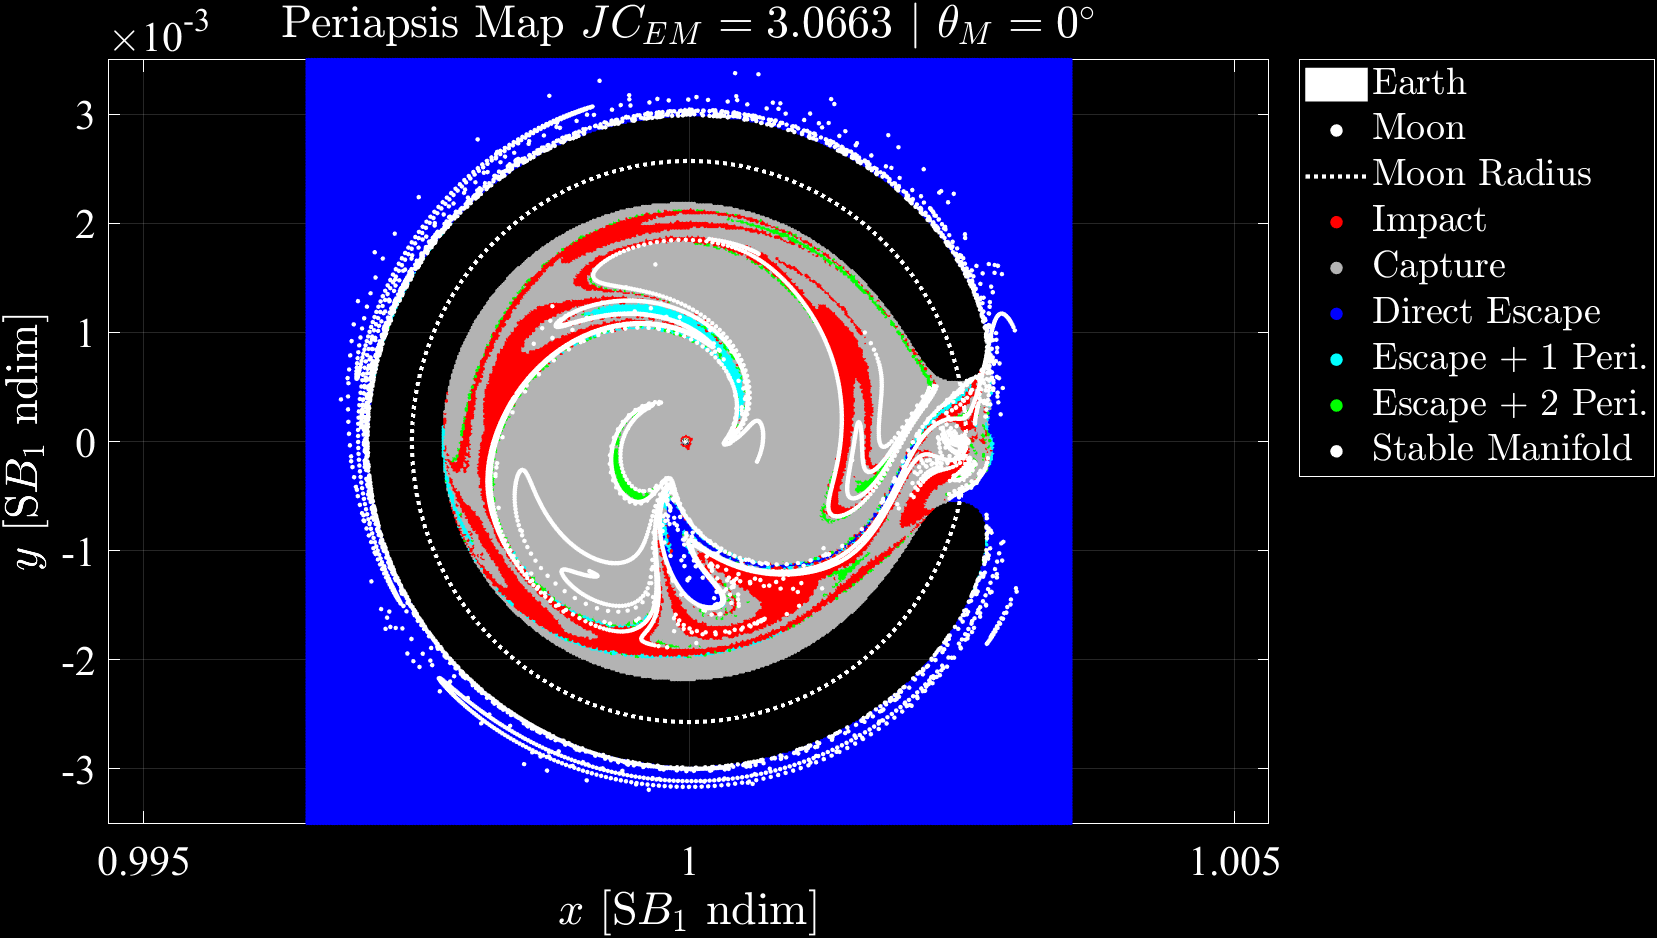
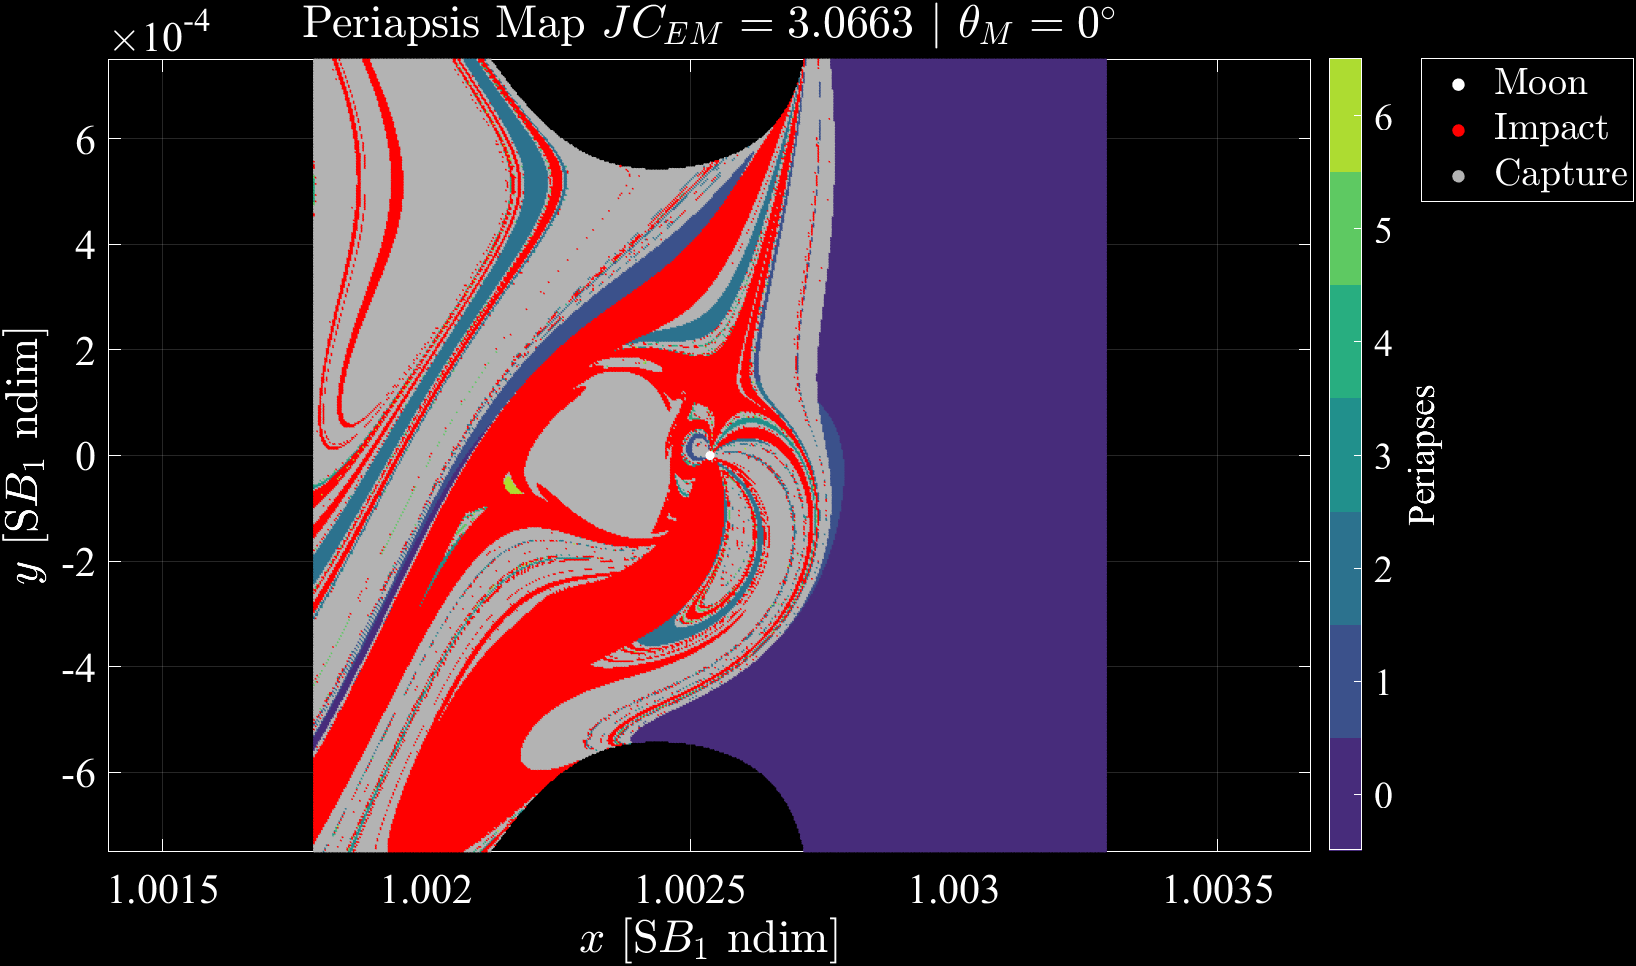
Updated PeriapsisMap.m script

diff --git a/PeriapsisMap.m b/PeriapsisMap.m
@@ -1,11 +1,13 @@
 %%% PeriapsisMap.jl
 %%% Jonathan Richmond
 %%% C: 24 October 2025
-%%% U: 8 November 2025
+%%% U: 12 November 2025
 
 clear
+% set(0, 'DefaultFigureVisible', 'off');
+set(0, 'DefaultFigureVisible', 'on');
 load('../PhDScripts/Output/PeriapsisMap.mat')
-n = length(flagsEM);
+n = length(flagsBCR4BP);
 
 %% Earth-Moon Data
 gmE = 3.9860043543609593E5; % Earth gravitational parameter [km^3/s^2]
@@ -37,34 +39,29 @@ lstarSB1 = 1.4959789401764473E8; % Characteristic length [km]
 tstarSB1 = sqrt(lstarSB1^3/(gmS+gmB1)); % Characteristic time [s]
 
 %% Color Map
-colorMap = viridis(7);
-colorMap(8,:) = [0, 0, 0];
-colorMap(9,:) = [1, 0, 0];
-colorMap(10,:) = 0.7*[1, 1, 1];
+colorMap = viridis(6);
+colorMap(7,:) = 0.7*[1, 1, 1];
+colorMap(8,:) = [1, 0, 0];
+colorMap(9,:) = [0, 0, 0];
 
-%% Earth-Moon Periapsis Map
-fig1 = figure("Position", [200 100 1200 750]);
-hold on
-x = zeros(n, 1);
-y = zeros(n, 1);
-parfor j = 1:n
-    x(j) = pointsEM{j}(1);
-    y(j) = pointsEM{j}(2);
-end
 % xMan = zeros(length(manifold), 1);
 % yMan = zeros(length(manifold), 1);
-% parfor j = 1:length(manifold)
+% for j = 1:length(manifold)
 %     xMan(j) = manifold{j}(1);
 %     yMan(j) = manifold{j}(2);
 % end
-scatter(x, y, 5, colorMap(flagsEM+1,:), 'filled', 'HandleVisibility', 'off')
+
+%% CR3BP Periapsis Map
+fig1 = figure("Position", [200 100 1200 750]);
+hold on
+scatter(xPoints, yPoints, 1.75, colorMap(flagsCR3BP+1,:), 'filled', 'HandleVisibility', 'off')
 Earth = plot3DBody("Earth", RE/lstar, [-mu, 0, 0]);
 set(Earth, 'DisplayName', "Earth")
-scatter(1-mu, 0, 20, 'w', 'filled', 'DisplayName', "Moon")
-plot(cos(linspace(0, 2*pi, 101))*(1-mu), sin(linspace(0, 2*pi, 101)), 'w:', 'DisplayName', "Moon Radius")
-% plot(RH/lstarSB1*cos(linspace(0, 2*pi, 101))+1-muSB1, RH/lstarSB1*sin(linspace(0, 2*pi, 101)), 'w--', 'DisplayName', "Hills Radius")
-scatter(nan, nan, 20, [1, 0, 0], 'filled', 'DisplayName', "Impact")
+Moon = plot3DBody("Moon", Rm/lstar, [1-mu, 0, 0]);
+set(Moon, 'DisplayName', "Moon")
+% plot(RH/lstar*cos(linspace(0, 2*pi, 101)), RH/lstar*sin(linspace(0, 2*pi, 101)), 'w--', 'DisplayName', "Hills Radius")
 scatter(nan, nan, 20, 0.7*[1, 1, 1], 'filled', 'DisplayName', "Capture")
+scatter(nan, nan, 20, [1, 0, 0], 'filled', 'DisplayName', "Impact")
 axis equal
 % ax = axis;
 % scatter(xMan, yMan, 5, 'w', 'filled', 'DisplayName', "Stable Manifold")
@@ -72,12 +69,12 @@ axis equal
 grid on
 xlabel("$x$ [EM ndim]", 'Interpreter', 'latex')
 ylabel("$y$ [EM ndim]", 'Interpreter', 'latex')
-title("Periapsis Map $JC_{EM}="+num2str(JC)+"$", 'Interpreter', 'latex')
-cb1 = colorbar;  % create the colorbar
-colormap(colorMap(1:7,:));
-caxis([-0.5 6.5]);
-cb1.Ticks = 0:6;
-cb1.TickLabels = string(0:6);
+title("Periapsis Map $JC="+num2str(JC)+"$", 'Interpreter', 'latex')
+cb1 = colorbar;
+colormap(colorMap(1:6,:));
+caxis([-0.5 5.5]);
+cb1.Ticks = 0:5;
+cb1.TickLabels = string(0:5);
 cb1.Label.String = 'Periapses';
 leg1 = legend('Location', 'bestoutside', 'Interpreter', 'latex');
 set(gca, 'Color', 'k');
@@ -85,41 +82,35 @@ view(2)
 hold off
 % exportgraphics(fig1, 'PeriapsisMap_1.png', 'BackgroundColor', 'k')
 
-%% Sun-B1 Periapsis Map
-mi = 10;
+%% BCR4BP Periapsis Map
+t = 2;
 fig2 = figure("Position", [200 100 1200 750]);
 hold on
-xSB1 = zeros(n, 1);
-ySB1 = zeros(n, 1);
-parfor j = 1:n
-    xSB1(j) = pointsSB1{mi}{j}(1);
-    ySB1(j) = pointsSB1{mi}{j}(2);
-end
-scatter(xSB1, ySB1, 3, colorMap(flagsSB1{mi}+1,:), 'filled', 'HandleVisibility', 'off')
-Earth = plot3DBody("Earth", RE/lstarSB1, [lstar/lstarSB1*cos(moonAngles(mi))*(-mu)+1-muSB1, lstar/lstarSB1*sin(moonAngles(mi))*(-mu), 0]);
+scatter(xPoints, yPoints, 1.75, colorMap(flagsBCR4BP{t}+1,:), 'filled', 'HandleVisibility', 'off')
+Earth = plot3DBody("Earth", RE/lstar, [-mu, 0, 0]);
 set(Earth, 'DisplayName', "Earth")
-scatter(lstar/lstarSB1*cos(moonAngles(mi))*(1-mu)+1-muSB1, lstar/lstarSB1*sin(moonAngles(mi))*(1-mu), 20, 'w', 'filled', 'DisplayName', "Moon")
-plot(lstar/lstarSB1*cos(linspace(0, 2*pi, 101))*(1-mu)+1-muSB1, lstar/lstarSB1*sin(linspace(0, 2*pi, 101))*(1-mu), 'w:', 'DisplayName', "Moon Radius")
-% plot(RH/lstarSB1*cos(linspace(0, 2*pi, 101))+1-muSB1, RH/lstarSB1*sin(linspace(0, 2*pi, 101)), 'w--', 'DisplayName', "Hills Radius")
-scatter(nan, nan, 20, [1, 0, 0], 'filled', 'DisplayName', "Impact")
+Moon = plot3DBody("Moon", Rm/lstar, [1-mu, 0, 0]);
+set(Moon, 'DisplayName', "Moon")
+% plot(RH/lstar*cos(linspace(0, 2*pi, 101)), RH/lstar*sin(linspace(0, 2*pi, 101)), 'w--', 'DisplayName', "Hills Radius")
 scatter(nan, nan, 20, 0.7*[1, 1, 1], 'filled', 'DisplayName', "Capture")
-% scatter(xMan.*lstar./lstarSB1+1-muSB1, yMan.*lstar./lstarSB1, 5, 'w', 'filled', 'DisplayName', "Stable Manifold")
+scatter(nan, nan, 20, [1, 0, 0], 'filled', 'DisplayName', "Impact")
+% scatter(xMan, yMan, 5, 'w', 'filled', 'DisplayName', "Stable Manifold")
 axis equal
 grid on
-xlabel("$x$ [S$B_{1}$ ndim]", 'Interpreter', 'latex')
-ylabel("$y$ [S$B_{1}$ ndim]", 'Interpreter', 'latex')
-title("Periapsis Map $JC_{EM}="+num2str(JC)+"$ $|$ $\theta_{M}="+num2str(moonAngles(mi)*180/pi)+"^\circ$", 'Interpreter', 'latex')
+xlabel("$x$ [EM ndim]", 'Interpreter', 'latex')
+ylabel("$y$ [EM ndim]", 'Interpreter', 'latex')
+title("Periapsis Map $JC="+num2str(JC)+"$ $|$ $\theta_{S}="+num2str(thetaS(t)*180/pi)+"^\circ$", 'Interpreter', 'latex')
 cb2 = colorbar;
-colormap(colorMap(1:7,:));
-caxis([-0.5 6.5]);
-cb2.Ticks = 0:6;
-cb2.TickLabels = string(0:6);
+colormap(colorMap(1:6,:));
+caxis([-0.5 5.5]);
+cb2.Ticks = 0:5;
+cb2.TickLabels = string(0:5);
 cb2.Label.String = 'Periapses';
 leg2 = legend('Location', 'bestoutside', 'Interpreter', 'latex');
 set(gca, 'Color', 'k');
 view(2)
 hold off
-exportgraphics(fig2, 'PeriapsisMap_2.png', 'BackgroundColor', 'k')
+% exportgraphics(fig2, 'PeriapsisMap_2.png', 'BackgroundColor', 'k')
 
 %% Trajectory Plots
 % fig3 = figure("Position", [200 100 1200 750]);
@@ -161,18 +152,9 @@ exportgraphics(fig2, 'PeriapsisMap_2.png', 'BackgroundColor', 'k')
 % % exportgraphics(fig4, 'PeriapsisMap_4.png', 'BackgroundColor', 'k')
 
 %% Animation
-% xSB1_ani = zeros(length(moonAngles), n);
-% ySB1_ani = zeros(length(moonAngles), n);
-% parfor j = 1:length(moonAngles)
-%     for k = 1:n
-%         xSB1_ani(j,k) = pointsSB1{j}{k}(1);
-%         ySB1_ani(j,k) = pointsSB1{j}{k}(2);
-%     end
-% end
-% 
 % % Video Object and Figure Params
-% writerObj = VideoWriter('PeriapsisMap_3_0663_200.mp4', 'MPEG-4');
-% writerObj.FrameRate = 3;
+% writerObj = VideoWriter('PeriapsisMap_3_0663_500.mp4', 'MPEG-4');
+% writerObj.FrameRate = 5;
 % writerObj.Quality = 100;
 % open(writerObj);
 % fig = figure('units', 'normalized', 'outerposition', [0 0 1 1]);
@@ -185,23 +167,23 @@ exportgraphics(fig2, 'PeriapsisMap_2.png', 'BackgroundColor', 'k')
 %     fig;
 % 
 %     hold on
-%     scatter(xSB1_ani(t,:), ySB1_ani(t,:), 4, colorMap(flagsSB1{t}+1,:), 'filled', 'HandleVisibility', 'off')
-%     Earth = plot3DBody("Earth", RE/lstarSB1, [lstar/lstarSB1*cos(moonAngles(t))*(-mu)+1-muSB1, lstar/lstarSB1*sin(moonAngles(t))*(-mu), 0]);
+%     scatter(xPoints, yPoints, 1.75, colorMap(flagsBCR4BP{t}+1,:), 'filled', 'HandleVisibility', 'off')
+%     Earth = plot3DBody("Earth", RE/lstar, [-mu, 0, 0]);
 %     set(Earth, 'DisplayName', "Earth")
-%     scatter(lstar/lstarSB1*cos(moonAngles(t))*(1-mu)+1-muSB1, lstar/lstarSB1*sin(moonAngles(t))*(1-mu), 20, 'w', 'filled', 'DisplayName', "Moon")
-%     plot(lstar/lstarSB1*cos(linspace(0, 2*pi, 101))*(1-mu)+1-muSB1, lstar/lstarSB1*sin(linspace(0, 2*pi, 101))*(1-mu), 'w:', 'DisplayName', "Moon Radius")
-%     scatter(nan, nan, 20, [1, 0, 0], 'filled', 'DisplayName', "Impact")
+%     Moon = plot3DBody("Moon", Rm/lstar, [1-mu, 0, 0]);
+%     set(Moon, 'DisplayName', "Moon")
 %     scatter(nan, nan, 20, 0.7*[1, 1, 1], 'filled', 'DisplayName', "Capture")
+%     scatter(nan, nan, 20, [1, 0, 0], 'filled', 'DisplayName', "Impact")
 %     axis equal
 %     grid on
-%     xlabel("$x$ [S$B_{1}$ ndim]", 'Interpreter', 'latex')
-%     ylabel("$y$ [S$B_{1}$ ndim]", 'Interpreter', 'latex')
-%     title("Periapsis Map $JC_{EM}="+num2str(JC)+"$ $|$ $\theta_{M}="+num2str(moonAngles(t)*180/pi)+"^\circ$", 'Interpreter', 'latex')
+%     xlabel("$x$ [EM ndim]", 'Interpreter', 'latex')
+%     ylabel("$y$ [EM ndim]", 'Interpreter', 'latex')
+%     title("Periapsis Map $JC="+num2str(JC)+"$ $|$ $\theta_{S}="+num2str(thetaS(t)*180/pi)+"^\circ$", 'Interpreter', 'latex')
 %     cb2 = colorbar;
-%     colormap(colorMap(1:7,:));
-%     caxis([-0.5 6.5]);
-%     cb2.Ticks = 0:6;
-%     cb2.TickLabels = string(0:6);
+%     colormap(colorMap(1:6,:));
+%     caxis([-0.5 5.5]);
+%     cb2.Ticks = 0:5;
+%     cb2.TickLabels = string(0:5);
 %     cb2.Label.String = 'Periapses';
 %     leg2 = legend('Location', 'bestoutside', 'Interpreter', 'latex');
 %     set(gca, 'Color', 'k');
